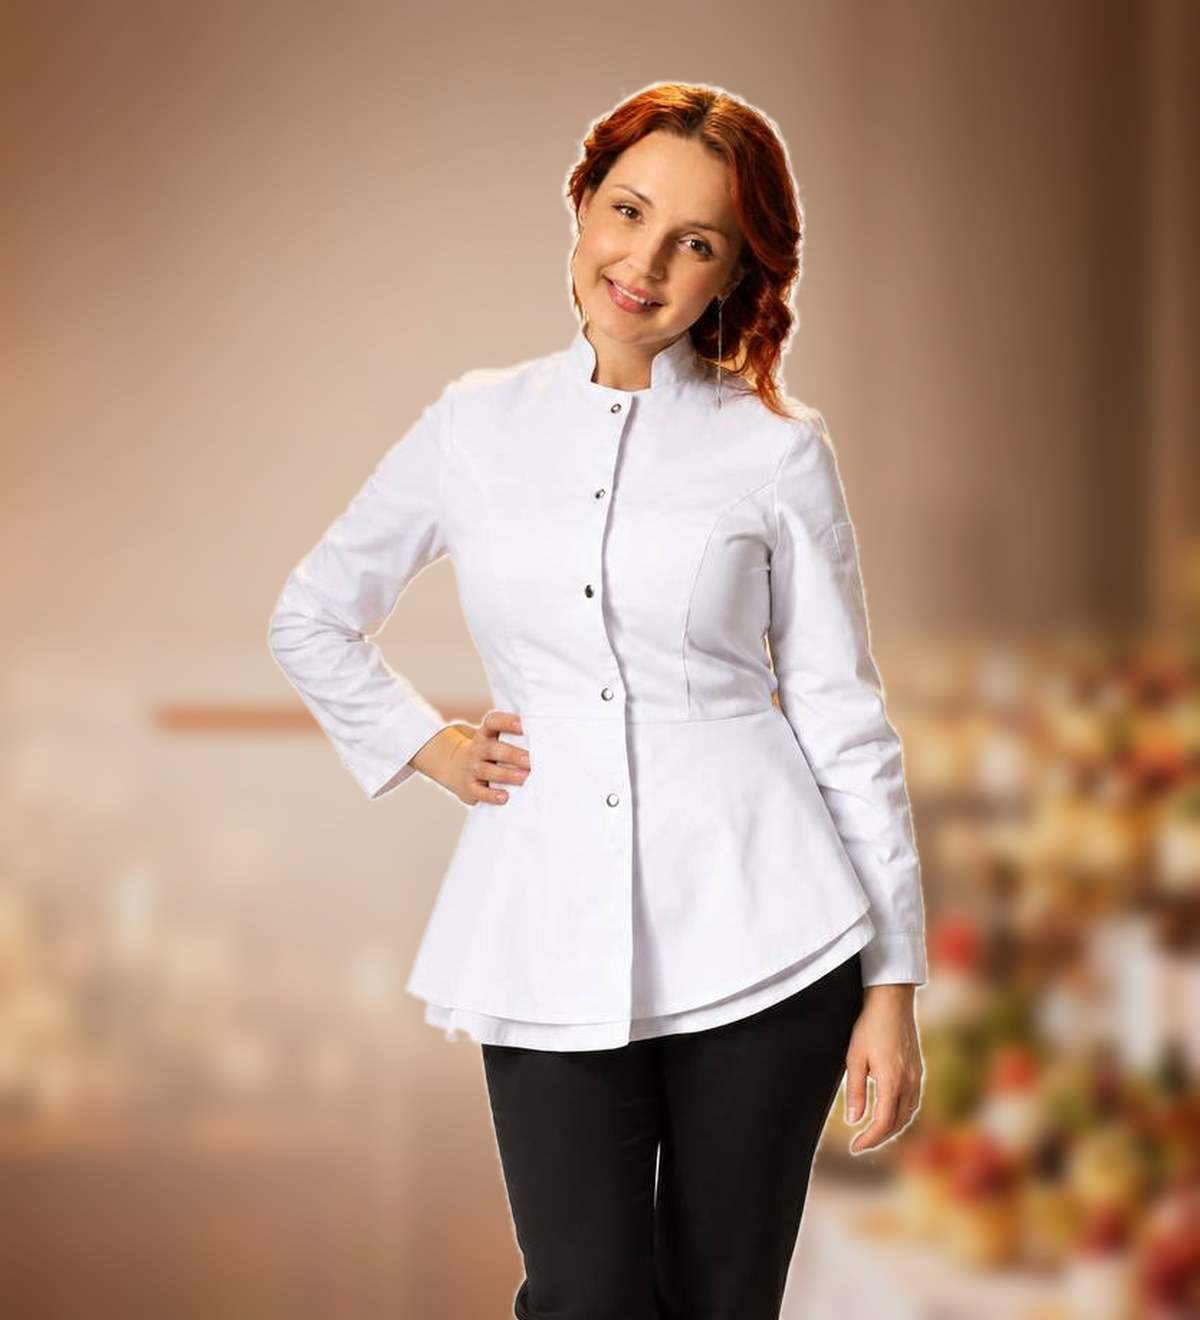
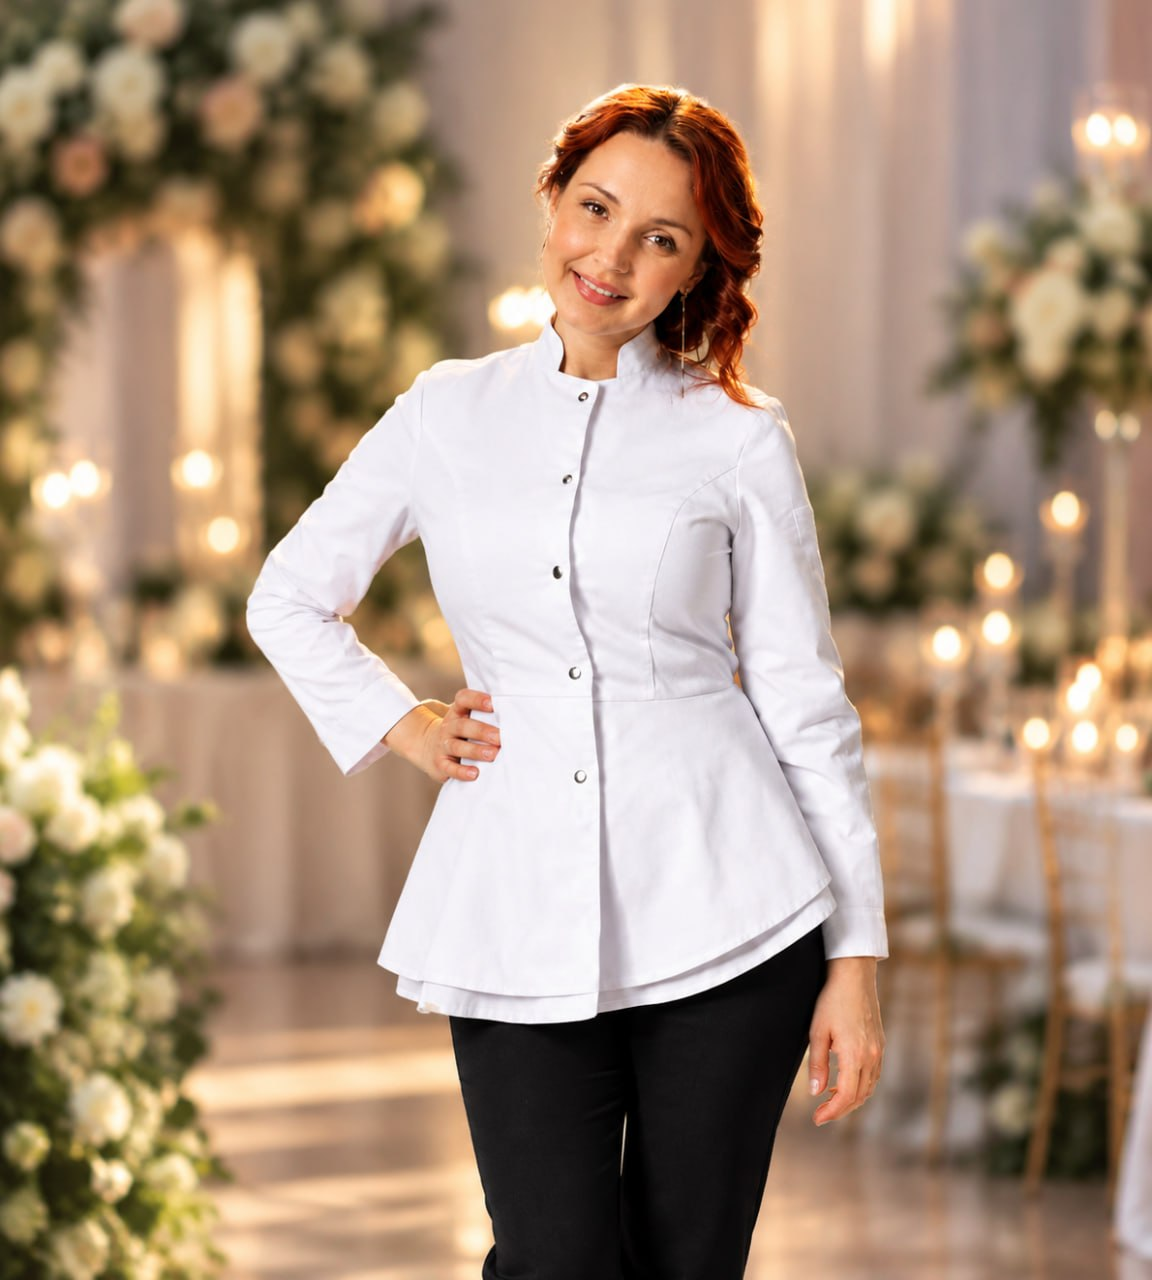
Блок «О нас»: сгенерированное фото Екатерины в зале
Слот подогнан под кадр 1152×1280 (9:10), чтобы ничего не обрезалось.

diff --git a/css/style.css b/css/style.css
@@ -262,7 +262,7 @@ button{ font:inherit; }
 }
 .about__media{ position:relative; }
 .about__media img{
-  width:100%; aspect-ratio:4/4.4; object-fit:cover;
+  width:100%; aspect-ratio:9/10; object-fit:cover;
   border-radius:var(--radius); box-shadow:var(--shadow-lg);
 }
 .about__badge{
@@ -635,7 +635,7 @@ button{ font:inherit; }
 
 /* блок «О нас» */
 .about__media > .ph-box{
-  aspect-ratio:4/4.4; border-radius:var(--radius); box-shadow:var(--shadow-lg);
+  aspect-ratio:9/10; border-radius:var(--radius); box-shadow:var(--shadow-lg);
 }
 
 /* ============================================================

diff --git a/README.md b/README.md
@@ -36,7 +36,7 @@ assets/img/         картинки (см. ниже)
 | `assets/img/logo-light.png` | светлая версия логотипа | коричневый перекрашен в кремовый — для тёмного первого экрана и подвала |
 | `assets/img/favicon.png` | иконка вкладки | фрагмент логотипа |
 | `assets/img/chef.png` | Екатерина без фона | вырезана из `екатерина.jpg` |
-| `assets/img/about.jpg` | фото в блок «О нас» | вырезка на фоне того же зала, что на первом экране |
+| `assets/img/about.jpg` | фото в блок «О нас» | сгенерированный кадр, 1152×1280 |
 | `assets/img/hero.jpg` | первый экран целиком | копия `главный.jpg` |
 | `assets/img/hero-mobile.jpg` | фон первого экрана на телефоне | склейка чистых полос `hero.jpg` |
 
@@ -72,6 +72,16 @@ assets/img/         картинки (см. ниже)
 
 Форматов пять — по списку из «инфа сайт.docx». Если добавишь шестой,
 поправь число колонок у `.formats__grid` в `css/style.css`.
+
+## Блок «О нас»
+
+Слот под фото задан как `aspect-ratio: 9/10` в `css/style.css` — ровно под
+текущий кадр 1152×1280, поэтому ничего не обрезается. Если будешь менять фото,
+либо готовь его в тех же пропорциях (например 1600×1778), либо поправь
+`aspect-ratio` под новый размер — иначе `object-fit: cover` срежет края.
+
+Плашка «120+ мероприятий» лежит поверх снимка в левом нижнем углу,
+так что этот угол лучше держать свободным от важных деталей.
 
 ## Первый экран
 
